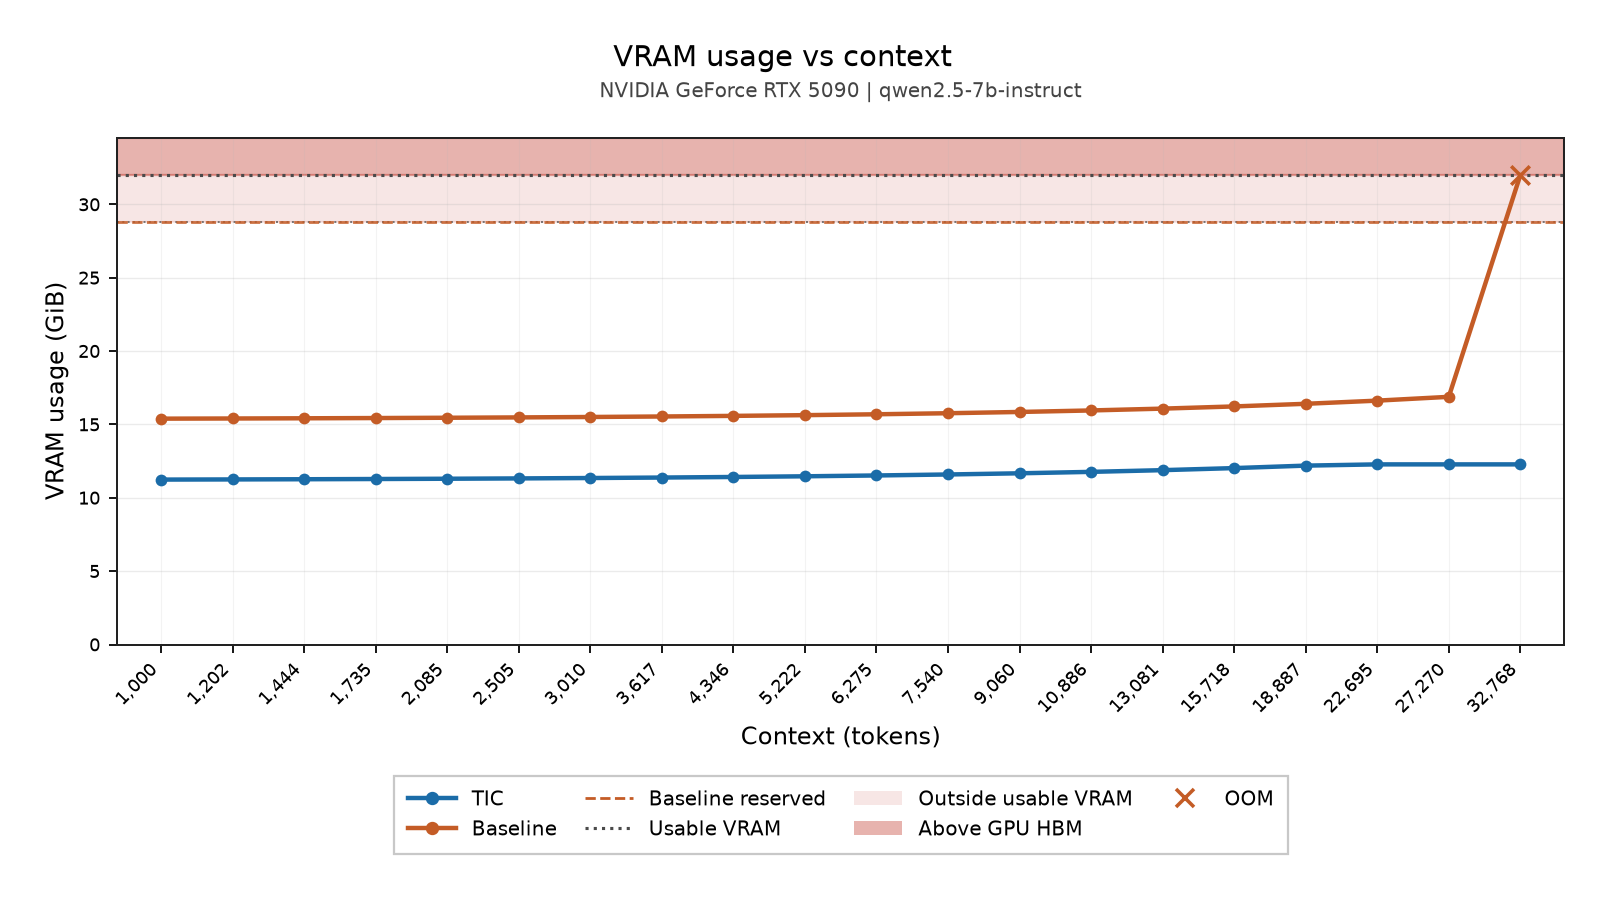
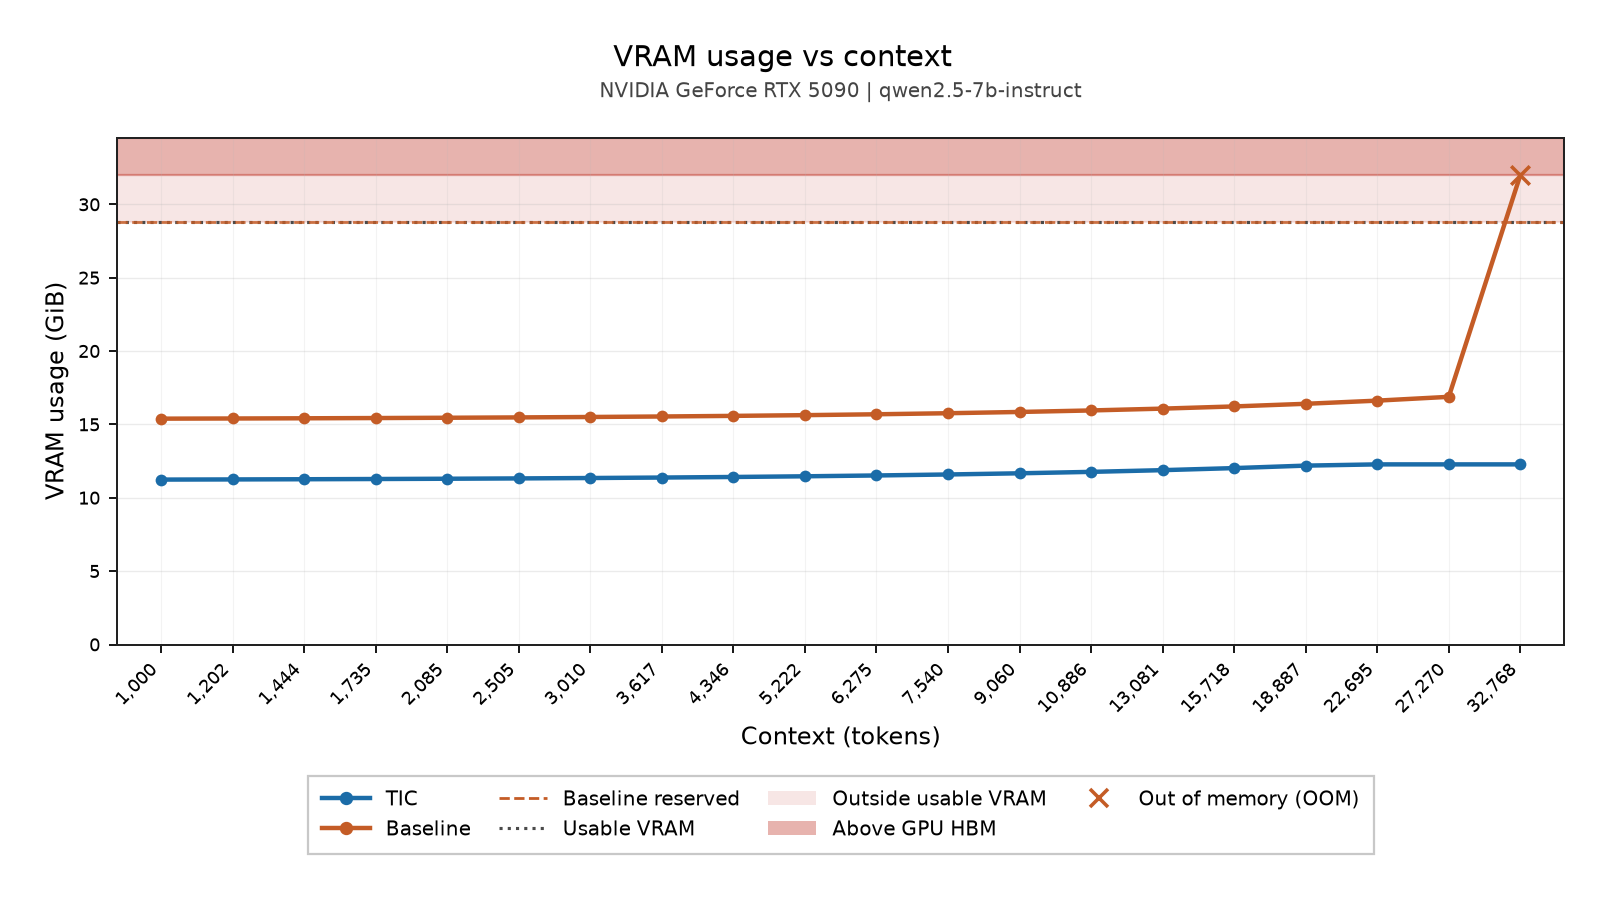
Align mock report units and VRAM usable line so tables do not contradict the figures.

Changed region(s): [[0.1865, 0.8721, 0.839, 0.9344]]

diff --git a/benchmarks/scripts/generate_report.py b/benchmarks/scripts/generate_report.py
@@ -50,6 +50,10 @@ def bytes_gb(value: Any) -> str:
     return "null" if value is None else f"{int(value) / 1e9:.2f} GB"
 
 
+def bytes_gib(value: Any) -> str:
+    return "null" if value is None else f"{int(value) / float(1024**3):.2f} GiB"
+
+
 def pool_gib(
     memory_bytes: Any,
     tokens: Any = None,
@@ -340,8 +344,8 @@ def _section_gpu_excluding_kv(footprint: dict[str, Any]) -> list[str]:
         "|--------|----------|-----|-----------|",
         (
             "| GPU memory for loaded weights | "
-            f"{bytes_gb(b_load)} | "
-            f"{bold_win(bytes_gb(t_load), win=load_win)} | "
+            f"{bytes_gib(b_load)} | "
+            f"{bold_win(bytes_gib(t_load), win=load_win)} | "
             f"{bold_win(load_cell, win=load_win)} |"
         ),
         "",
@@ -496,10 +500,15 @@ def _section_d(
     if capacity is not None and tps:
         b_tps = tps.get("baseline")
         t_tps = tps.get("tic")
+        tps_win = (
+            isinstance(b_tps, (int, float))
+            and isinstance(t_tps, (int, float))
+            and float(t_tps) > float(b_tps)
+        )
         lines.append(
             "| Output tok/s | "
             f"{number(b_tps)} | "
-            f"{bold_win(number(t_tps), win=True)} |"
+            f"{bold_win(number(t_tps), win=tps_win)} |"
         )
     elif decode_rows:
         row = decode_rows[0]
@@ -590,15 +599,6 @@ def _mode_sections(summary: dict[str, Any]) -> list[str]:
         from needle_haystack import vram_report_lines
 
         lines.extend(vram_report_lines(str(haystack["vram_image"])))
-    lines.extend(
-        [
-            "## Serve at recall-matched KV cache",
-            "",
-            "`vllm bench serve` at the KV cache sizes where both sides recall. "
-            "Not default fill (`gpu_memory_utilization=0.90`).",
-            "",
-        ]
-    )
     if capacity is not None and experiment_kind == "capacity":
         lines.extend(
             _section_c(

diff --git a/benchmarks/tests/test_needle_haystack.py b/benchmarks/tests/test_needle_haystack.py
@@ -431,7 +431,13 @@ class NeedleHaystackTests(unittest.TestCase):
             self.assertIn("Reported non-KV plus pool occupancy", text)
             self.assertIn("not a process nvidia-smi meter", text)
             self.assertIn("An X on the GPU HBM line is OOM", text)
+            self.assertIn(
+                "A 0.0 cell at the longest context is OOM, same as the VRAM X.",
+                text,
+            )
             self.assertNotIn("Above GPU HBM (OOM)", text)
+            self.assertNotIn("## Serve at recall-matched KV cache", text)
+            self.assertNotIn("Not default fill", text)
 
     def test_mock_report_dir_has_figures(self) -> None:
         mock = ROOT / "qwen2.5-7b-instruct" / "rtx-5090-report_mock"
@@ -440,7 +446,15 @@ class NeedleHaystackTests(unittest.TestCase):
         self.assertIn("](vram-vs-context.png)", text)
         self.assertIn("Reported non-KV plus pool occupancy", text)
         self.assertIn("An X on the GPU HBM line is OOM", text)
+        self.assertIn(
+            "A 0.0 cell at the longest context is OOM, same as the VRAM X.",
+            text,
+        )
         self.assertNotIn("Above GPU HBM (OOM)", text)
+        self.assertNotIn("## Serve at recall-matched KV cache", text)
+        self.assertNotIn("Not default fill", text)
+        self.assertIn("| GPU memory for loaded weights | 15.34 GiB |", text)
+        self.assertNotIn("| GPU memory for loaded weights | 15.34 GB |", text)
         self.assertNotIn("Larger KV", text)
         self.assertNotIn("Same size as TIC", text)
         self.assertNotIn("Fact retrieved (needle)", text)

diff --git a/benchmarks/scripts/needle_haystack.py b/benchmarks/scripts/needle_haystack.py
@@ -1240,8 +1240,7 @@ def render_vram_vs_context(
     fig, ax = plt.subplots(figsize=(10.4, 5.6))
     ax.axhspan(usable_gib, hbm_gib, color="#c0392b", alpha=0.12, zorder=0)
     ax.axhspan(hbm_gib, ymax, color="#c0392b", alpha=0.38, zorder=0)
-    ax.axhline(hbm_gib, color="#4a4a4a", ls=":", lw=1.4, zorder=2)
-    ax.axhline(usable_gib, color="#4a4a4a", ls=":", lw=0.9, alpha=0.7, zorder=2)
+    ax.axhline(usable_gib, color="#4a4a4a", ls=":", lw=1.4, zorder=2)
     tick_xs: list[int] = []
     oom_legend_color = _VRAM_COLORS["baseline"]
     for (panel, size), points in sorted(
@@ -1391,7 +1390,7 @@ def render_vram_vs_context(
             ls="none",
             ms=8,
             mew=1.6,
-            label="OOM",
+            label="Out of memory (OOM)",
         ),
     ]
     ax.legend(
@@ -1533,7 +1532,8 @@ def report_lines(
             (
                 "X is context tokens. "
                 "Y is needle depth % (0 = start of prompt, 100 = end). "
-                "Color is recall."
+                "Color is recall. "
+                "A 0.0 cell at the longest context is OOM, same as the VRAM X."
             ),
             "",
             "Figure. Fact retrieval by context length (multi-needle haystack).",

diff --git a/benchmarks/tests/test_benchmark.py b/benchmarks/tests/test_benchmark.py
@@ -724,6 +724,8 @@ class BenchmarkTests(unittest.TestCase):
             self.assertIn("| System |", report)
             self.assertIn("| CUDA graphs |", report)
             self.assertIn("| GPU memory for loaded weights |", report)
+            self.assertNotIn("## Serve at recall-matched KV cache", report)
+            self.assertNotIn("Not default fill", report)
             self.assertIn("| Compiler |", report)
             self.assertIn("| Runtime |", report)
             self.assertIn("Savings %", report)

diff --git a/benchmarks/qwen2.5-7b-instruct/rtx-5090-report_mock/report.md b/benchmarks/qwen2.5-7b-instruct/rtx-5090-report_mock/report.md
@@ -31,7 +31,7 @@ This directory is a mock: tables and figures use invented numbers so you can see
 
 | Metric                        | Baseline | TIC          | Savings %  |
 | ----------------------------- | -------- | ------------ | ---------- |
-| GPU memory for loaded weights | 15.34 GB | **11.19 GB** | **27.08%** |
+| GPU memory for loaded weights | 15.34 GiB | **11.19 GiB** | **27.08%** |
 
 
 ### KV cache
@@ -48,7 +48,7 @@ This directory is a mock: tables and figures use invented numbers so you can see
 
 Same long prompt, needles, and question on every setup that starts. The Baseline serve would not start at 1.09 GiB.
 
-X is context tokens. Y is needle depth % (0 = start of prompt, 100 = end). Color is recall.
+X is context tokens. Y is needle depth % (0 = start of prompt, 100 = end). Color is recall. A 0.0 cell at the longest context is OOM, same as the VRAM X.
 
 Figure. Fact retrieval by context length (multi-needle haystack).
 
@@ -59,10 +59,6 @@ Figure. VRAM usage vs context tokens.
 Solid line is reported non-KV plus vLLM pool occupancy (metrics, or derived T/pool if /metrics is missing). Dashed line is Baseline non-KV plus its reserved KV pool. The dotted line is usable VRAM. The light red band is above usable VRAM. The darker red band is above GPU HBM. An X on the GPU HBM line is OOM at that context. Reported non-KV plus pool occupancy, not a process nvidia-smi meter.
 
 ![VRAM usage vs context tokens](vram-vs-context.png)
-
-## Serve at recall-matched KV cache
-
-`vllm bench serve` at the KV cache sizes where both sides recall. Not default fill (`gpu_memory_utilization=0.90`).
 
 ## C. Capacity
 
@@ -84,7 +80,7 @@ Tok/s and latency at the recall-matched KV sizes. Batch is in Capacity. Not equa
 
 | Metric                    | Baseline                | TIC                      |
 | ------------------------- | ----------------------- | ------------------------ |
-| Output tok/s              | 1876.21                 | **1860.33**              |
+| Output tok/s              | 1876.21                 | 1860.33                  |
 | ITL (ms) p50 / p95 / p99  | 10.65 / 11.35 / 11.89   | 10.97 / 11.57 / 32.48    |
 | TPOT (ms) p50 / p95 / p99 | 10.83 / 10.90 / 11.11   | 11.10 / 11.42 / 11.51    |
 | TTFT (ms) p50 / p95 / p99 | 94.70 / 152.51 / 152.60 | 124.30 / 201.38 / 201.68 |
